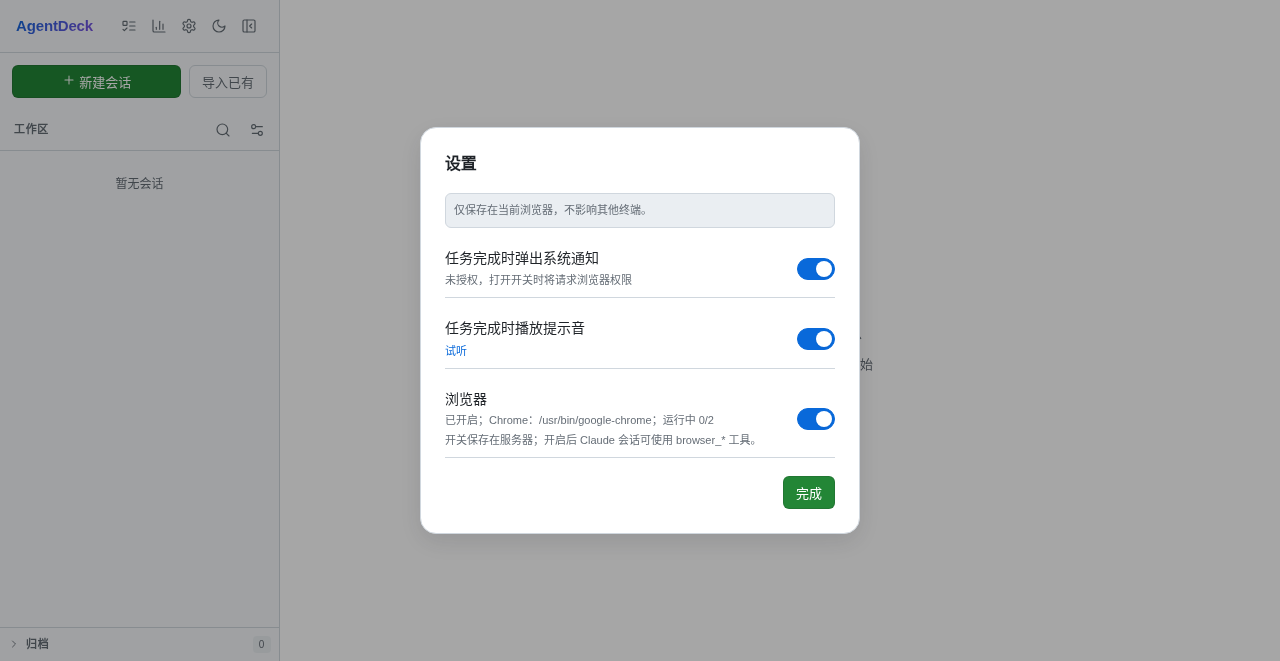
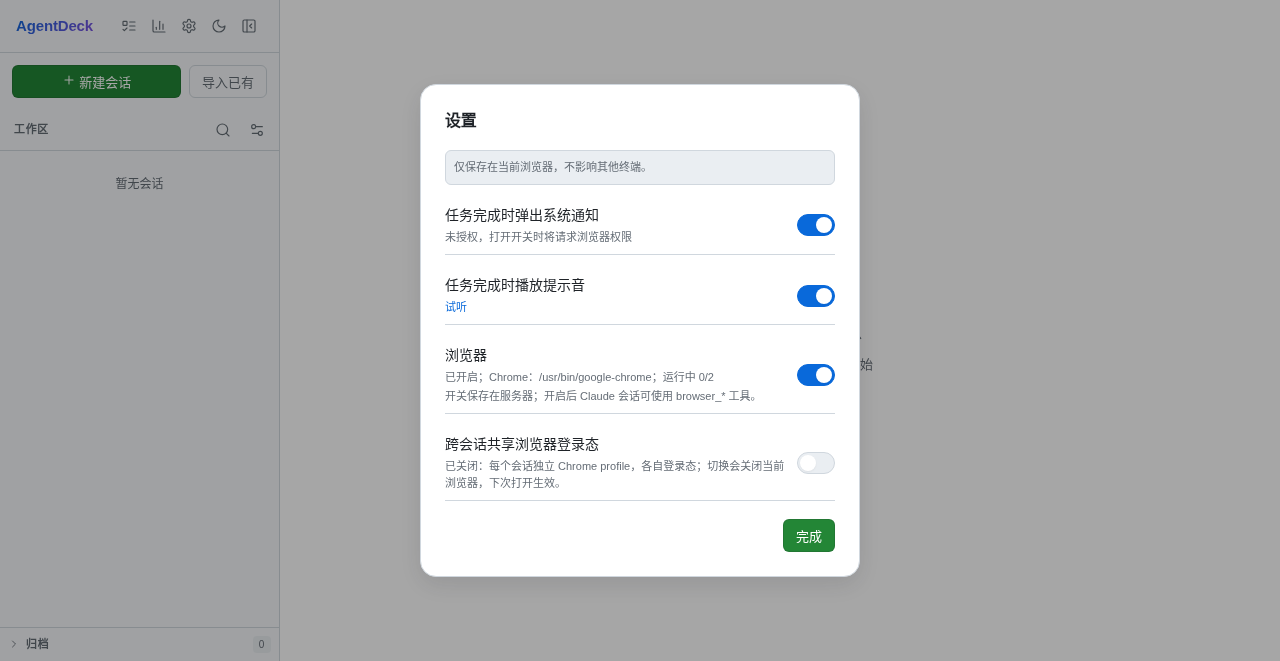
docs(browser): show shared-profile switch and clarify server-side settings
Update the Settings note and screenshot to include the new 跨会话共享浏览器登录态 switch (default off).

Changed region(s): [[0.3125, 0.3026, 0.6875, 0.8775], [0.3125, 0.121, 0.6875, 0.2723], [0.625, 0.3026, 0.6562, 0.6657]]

diff --git a/web/index.html b/web/index.html
@@ -642,7 +642,7 @@
 <div id="modal-settings" class="modal hidden">
   <div class="modal-card">
     <h3>设置</h3>
-    <div class="settings-note">仅保存在当前浏览器，不影响其他终端。</div>
+    <div class="settings-note">通知与提示音仅保存在当前浏览器；浏览器开关保存在服务器，所有终端共享。</div>
     <div class="settings-row">
       <div class="settings-text">
         <div class="settings-label">任务完成时弹出系统通知</div>
